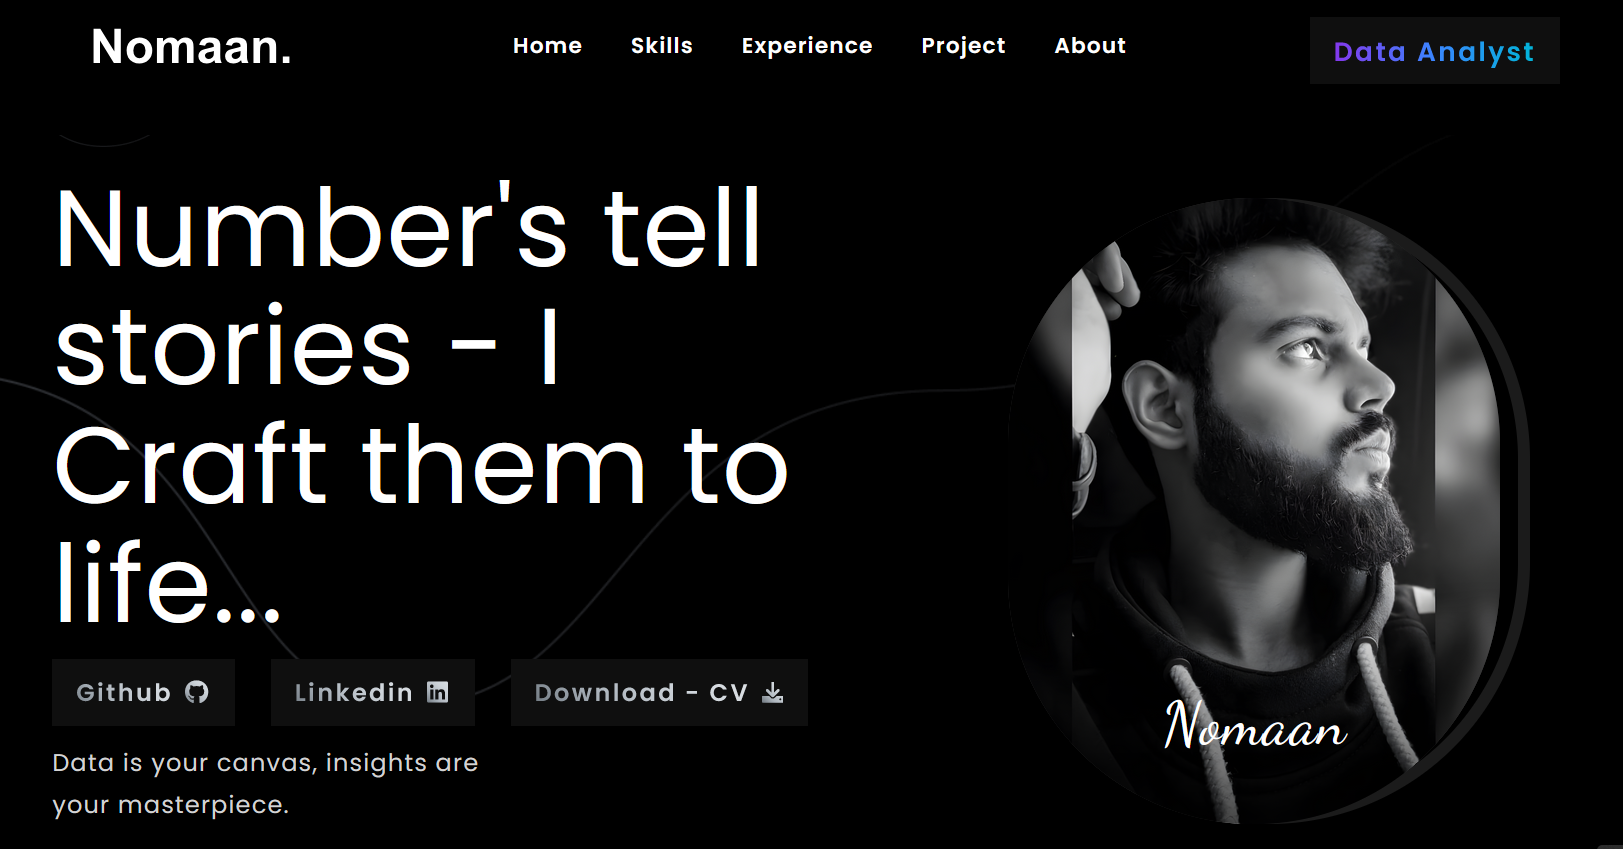
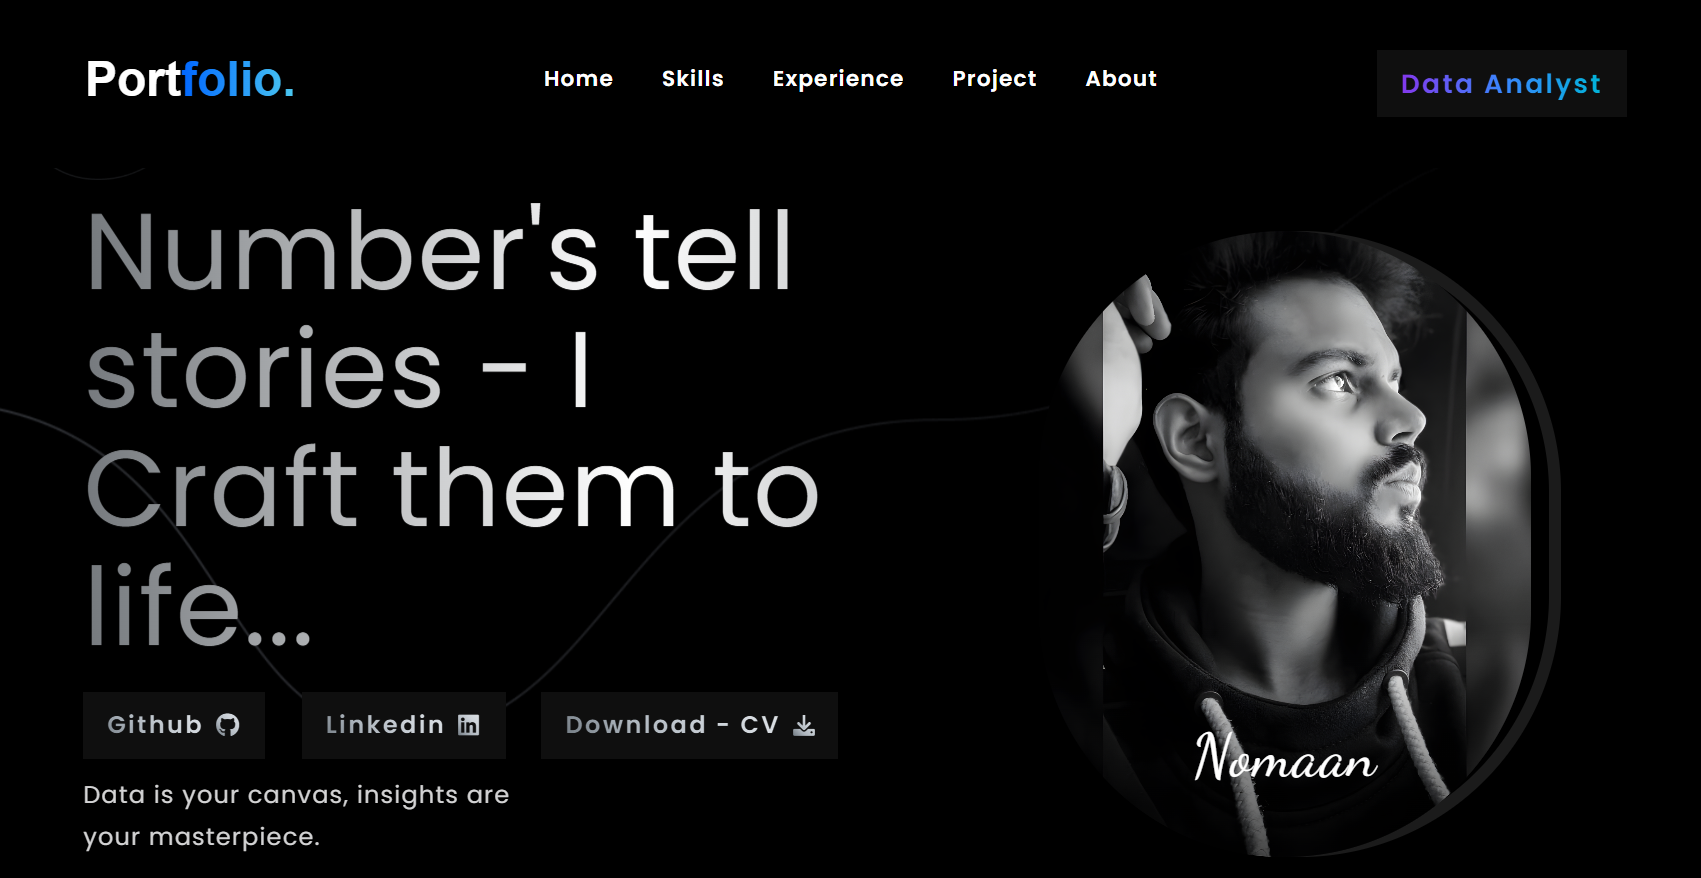
Readme.md

diff --git a/assets/css/style.css b/assets/css/style.css
@@ -56,16 +56,17 @@
   --font-dancing-script: 'Dancing Script', cursive;
 
   /* font size */
-  --fontSize-1: 4.6rem;
-  --fontSize-2: 4.5rem;
-  --fontSize-3: 4rem;
-  --fontSize-4: 3rem;
-  --fontSize-5: 2.4rem;
-  --fontSize-6: 1.8rem;
-  --fontSize-7: 2rem;
-  --fontSize-8: 1.6rem;
-  --fontSize-9: 1.5rem;
-  --fontSize-10: 1.4rem;
+  --fontSize-1: clamp(4.6rem, 8vw, 9rem);
+  --fontSize-2: clamp(4.5rem, 7.5vw, 7rem);
+  --fontSize-3: clamp(3rem, 5vw, 4rem);
+  --fontSize-4: clamp(2.4rem, 4vw, 3rem);
+  --fontSize-5: clamp(1.8rem, 3vw, 2.4rem);
+  --fontSize-6: clamp(1.6rem, 2.5vw, 1.8rem);
+  --fontSize-7: clamp(1.5rem, 2.2vw, 2rem);
+  --fontSize-8: clamp(1.4rem, 2vw, 1.6rem);
+  --fontSize-9: clamp(1.3rem, 1.8vw, 1.5rem);
+  --fontSize-10: clamp(1.2rem, 1.5vw, 1.4rem);
+
 
   /* font weight */
   --weight-regular: 400;
@@ -97,8 +98,57 @@
   
 }
 
+/*-----------------------------------*\
+  #ANIMATION
+\*-----------------------------------*/
+
+.moveUp-animation {
+  animation: moveUp 1.5s ease-in-out forwards;
+}
+@keyframes moveUp {
+  from {
+    transform: translateY(30px);
+    opacity: 0;
+  }
+
+  to {
+    transform: translateY(0);
+    opacity: 1;
+  }
+}
+
+.float-animation {
+  animation: floatUp 1.5s ease-in-out infinite;
+  /* or 'forwards' if you want it to stay up */
+}
+
+@keyframes floatUp {
+
+  0%, 100% {
+    transform: translateY(-5px);
+  }
+
+  50% {
+    transform: translateY(-15px);
+  }
+}
 
 
+.zoomIn-animation {
+  animation: zoomIn 1.5s ease-out forwards;
+}
+
+@keyframes zoomIn {
+  from {
+    transform: scale(0.5);
+    opacity: 0;
+  }
+
+  to {
+    transform: scale(1);
+    opacity: 1;
+  }
+}
 
 
 /*-----------------------------------*\
@@ -269,7 +319,7 @@ body.nav-active { overflow: hidden; }
   -webkit-background-clip: text;
 
   /* Combined animations */
-  animation: moveUp 3s ease-in-out forwards, shine 6s linear infinite, floatUp 3s ease-in-out infinite;
+  animation: shine 6s linear infinite, floatUp 3s ease-in-out infinite;
 
   /* Responsive base */
   display: inline-block;
@@ -289,15 +339,6 @@ body.nav-active { overflow: hidden; }
 @keyframes shine {
   to {
     background-position: 200% center;
-  }
-}
-
-@keyframes floatUp {
-  0%, 100% {
-    transform: translateY(0);
-  }
-  50% {
-    transform: translateY(-10px);
   }
 }
 
@@ -424,21 +465,17 @@ body.nav-active { overflow: hidden; }
   align-items: center;
   text-decoration: none;
   font-size: 20px;
-  padding: 10px 20px;
+  padding: 15px 15px;
   border-radius: 5px;
   transition: background-color 0.3s;
   letter-spacing: 2px;
-  animation: moveUp 1.5s ease-in-out forwards;
 }
 
 .btn .span, .btn ion-icon, .btn i {
  background: linear-gradient(45deg, #6c757d, #adb5bd, #ced4da, #dee2e6);
  background-clip: text;
  -webkit-background-clip: text;
- background-clip: text;
- background-clip: text;
  -webkit-text-fill-color: transparent;
- background-clip: text;
 }
 
 .btn ion-icon, .btn i {
@@ -453,24 +490,6 @@ body.nav-active { overflow: hidden; }
 
 .hero-text {
   font-size: 20px;
-  animation: moveUp 3s ease-in-out;
-  /* Optional: Add these for better animation control */
-  opacity: 0;
-  /* Start invisible */
-  animation-fill-mode: forwards;
-  /* Keep final state after animation */
-}
-
-@keyframes moveUp {
-  from {
-    transform: translateY(30px);
-    opacity: 0;
-  }
-
-  to {
-    transform: translateY(0);
-    opacity: 1;
-  }
 }
 
 
@@ -634,12 +653,12 @@ body.nav-active { overflow: hidden; }
 
 .hero {
   position: relative;
-  padding-block-start: 10vh; /* Use relative units for padding */
+  padding-block-start: clamp(80px, 8vh, 168px);
 }
 
 .hero .container {
   display: grid;
-  gap: 2rem; /* Use relative units for gap */
+  gap: 2rem;
   overflow: hidden;
 }
 
@@ -781,7 +800,7 @@ body.nav-active { overflow: hidden; }
 }
 
 .ico-text {
-  color: #eaeaea;
+  color: var(--bg-white);
   text-align: left;
   font-size: 20px;
   margin-top: 1rem;

diff --git a/index.html b/index.html
@@ -140,7 +140,7 @@
       <div class="hero text-center" >
         <div class="container">
 
-          <div class="banner-outline has-after">
+          <div class="banner-outline zoomIn-animation">
 
             <div class="hero-banner img-holder has-after" style="--width: 550; --height: 700;" data-tilt>
               <img src="./assets/images/hero/hero-banner.png" width="550" height="700" alt="Nomaan" class="img-cover">
@@ -150,13 +150,13 @@
 
           </div>
           
-          <div class="hero-content">
+          <div class="hero-content moveUp-animation">
 
-            <h1 class="h1 head-title" style="font-weight: 400;"><m>Number's tell stories - I Craft them to life...</m></h1>
+            <h1 class="h1 head-title animation" style="font-weight: 400;"><m>Number's tell stories - I Craft them to life...</m></h1>
 
             <div class="wrapper">
 
-              <a href="https://github.com/DexterCosmos" class="btn btn:hover">
+              <a href="https://github.com/Dexter-Cosmoos" class="btn btn:hover">
                 <span class="span">Github</span>
                 <i class="fab fa-github" aria-hidden="true"></i>
               </a>
@@ -173,7 +173,7 @@
 
             </div>
 
-            <p class="hero-text">
+            <p class="hero-text moveUp-animation">
               Data is your canvas, insights are your masterpiece.
             </p>
 
@@ -671,7 +671,7 @@
                 <li>
                   <div class="Badges-card">
 
-                    <figure class="card-banner img-holder" style="--width: auto; --height: auto;" data-tilt>
+                    <figure class="card-banner img-holder" style="width: auto; height: auto;" data-tilt>
                       <img src="./assets/images/Badges/IBM Visualization.png" width="376" height="200" loading="lazy" alt="image"
                         class="img-cover">
                     </figure>
@@ -715,7 +715,7 @@
       <section class="exp exp-start exp-end" >
         <div class="exp-container">
             <div class="company-section">
-                <div class="company-logo-container">
+                <div class="company-logo-container float-animation">
                     <img src="assets/images/Companies/WNS.png" alt="Company Logo" class="company-logo-1" />
                 </div>
                 <div class="company-details">
@@ -736,7 +736,7 @@
             </div>
 
             <div class="company-section">
-                <div class="company-logo-container">
+                <div class="company-logo-container float-animation">
                     <img src="assets/images/Companies/IGT Solutions.png" alt="Company Logo" class="company-logo-2" />
                 </div>
                 <div class="company-details">
